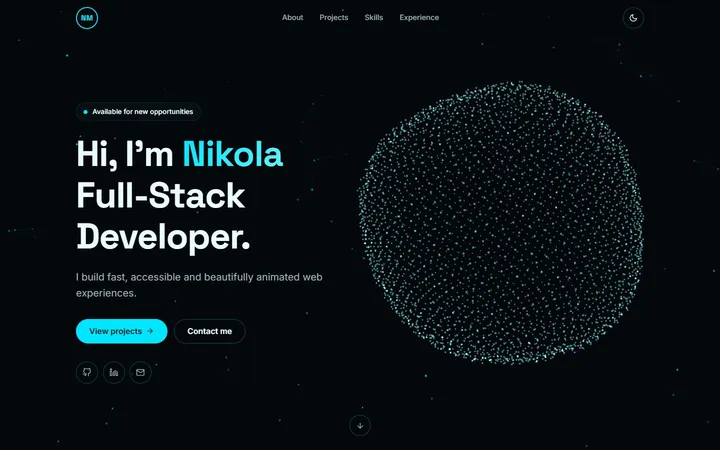
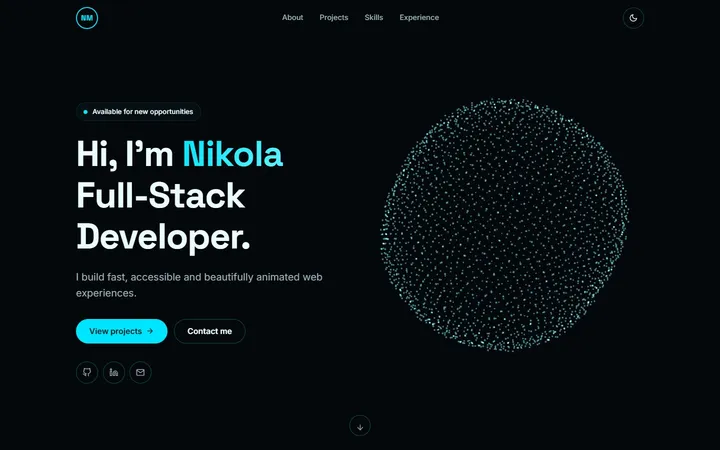
Fresh portfolio screenshots; README uses site images, drop docs/
- Retook the portfolio's own gallery: hero, about, projects, skills,
  experience, project page, light theme (8 shots, current content)
- README now references the optimized images in public/ instead of a
  separate, outdated docs/screenshots copy; docs/ removed
- README features updated (HTML intro, cursor-reactive sphere, skills,
  performance, SEO); OG image regenerated from the new hero

Changed region(s): [[0.4889, 0.1867, 0.9167, 0.8089]]

diff --git a/src/data/projects.ts b/src/data/projects.ts
@@ -19,7 +19,16 @@ export const projects: Project[] = [
       'A fast, fully responsive single-page portfolio built with React and TypeScript. The hero features an interactive particle sphere rendered with React Three Fiber that assembles on load and scatters away from the cursor, over an ambient canvas of drifting particles.',
       'Styling follows the SCSS 7-1 architecture, with theme colours defined as CSS custom properties so light and dark modes switch instantly. Framer Motion powers scroll reveals, card interactions and page transitions, and all content is served from typed local data, so no backend is needed.',
     ],
-    images: [portfolio('01-hero'), portfolio('02-about'), portfolio('03-experience'), portfolio('04-light')],
+    images: [
+      portfolio('01-hero'),
+      portfolio('02-about'),
+      portfolio('03-projects'),
+      portfolio('04-skills'),
+      portfolio('05-experience'),
+      portfolio('06-project-page'),
+      portfolio('07-light'),
+      portfolio('08-light-skills'),
+    ],
     stack: ['react', 'typescript', 'threejs', 'sass', 'framer', 'vite', 'netlify'],
     liveUrl: 'https://koleto.eu',
     repoUrl: 'https://github.com/nikolamihailov/koleto-portfolio-site',

diff --git a/README.md b/README.md
@@ -4,27 +4,35 @@
 
 My personal developer portfolio: a fast, fully responsive single-page app with an interactive three.js hero, smooth scroll animations and light/dark themes.
 
-![Hero — dark theme](docs/screenshots/hero-dark.png)
+<!-- Screenshots are the site's own optimized gallery images (generated from images-src/ by `npm run images`) -->
+![Hero — dark theme](public/images/projects/portfolio/01-hero-1600.webp)
 
 ## Features
 
-- **Intro loader:** "KOLETO" fades in letter by letter, then reveals the site.
-- **Interactive 3D hero:** a particle sphere (three.js / React Three Fiber) that assembles on load, breathes and scatters away from the cursor.
+- **Intro loader:** "KOLETO" fades in letter by letter, then reveals the site. It's plain HTML/CSS in `index.html`, so it paints before any JavaScript loads.
+- **Interactive 3D hero:** a particle sphere (three.js / React Three Fiber) that assembles on load, breathes, and parts exactly under the cursor. It loads on idle after the page appears.
 - **Ambient particle background:** a lightweight 2D canvas of drifting, connected particles across every page.
 - **Light & dark themes:** high-contrast cyan palette, saved preference, no flash of the wrong theme, smooth cross-fade (View Transitions API).
 - **Projects:** cards with tech chips, icons, **Live demo** and **View code** buttons, a 3D tilt and a cursor spotlight. Each project has its own page (`/projects/:slug`) with a swipeable gallery.
 - **Experience timeline:** an alternating left/right timeline with promotions grouped under one company (LinkedIn-style). The line fills as you scroll.
 - **Scroll reveals & micro-interactions** with Framer Motion. Respects `prefers-reduced-motion`.
-- **Responsive & cross-browser:** mobile-first, fluid typography with `clamp()`, Autoprefixer.
+- **Skills:** grouped cards with official brand-coloured icons (Frontend, Backend, Creative, Tooling, AI, Deployment).
+- **Responsive & cross-browser:** mobile-first, fluid typography with `clamp()`, Autoprefixer; tested in Chrome and Firefox.
+- **Fast:** self-hosted fonts, responsive WebP images, code-split routes, three.js loaded on idle.
+- **SEO:** `robots.txt`, a sitemap generated at build time, canonical URL and Open Graph image.
 - **No backend:** all content lives in typed files in `src/data/`.
 
-| Light theme | Projects |
+| About | Projects |
 | --- | --- |
-| ![Light theme](docs/screenshots/hero-light.png) | ![Projects](docs/screenshots/projects.png) |
+| ![About](public/images/projects/portfolio/02-about-960.webp) | ![Projects](public/images/projects/portfolio/03-projects-960.webp) |
 
-| Experience (desktop) | Experience (mobile) |
+| Skills | Experience |
 | --- | --- |
-| ![Experience timeline](docs/screenshots/experience.png) | <img src="docs/screenshots/mobile-experience.png" alt="Mobile experience timeline" width="260" /> |
+| ![Skills](public/images/projects/portfolio/04-skills-960.webp) | ![Experience timeline](public/images/projects/portfolio/05-experience-960.webp) |
+
+| Project page | Light theme |
+| --- | --- |
+| ![Project page](public/images/projects/portfolio/06-project-page-960.webp) | ![Light theme](public/images/projects/portfolio/07-light-960.webp) |
 
 ## Tech stack
 
